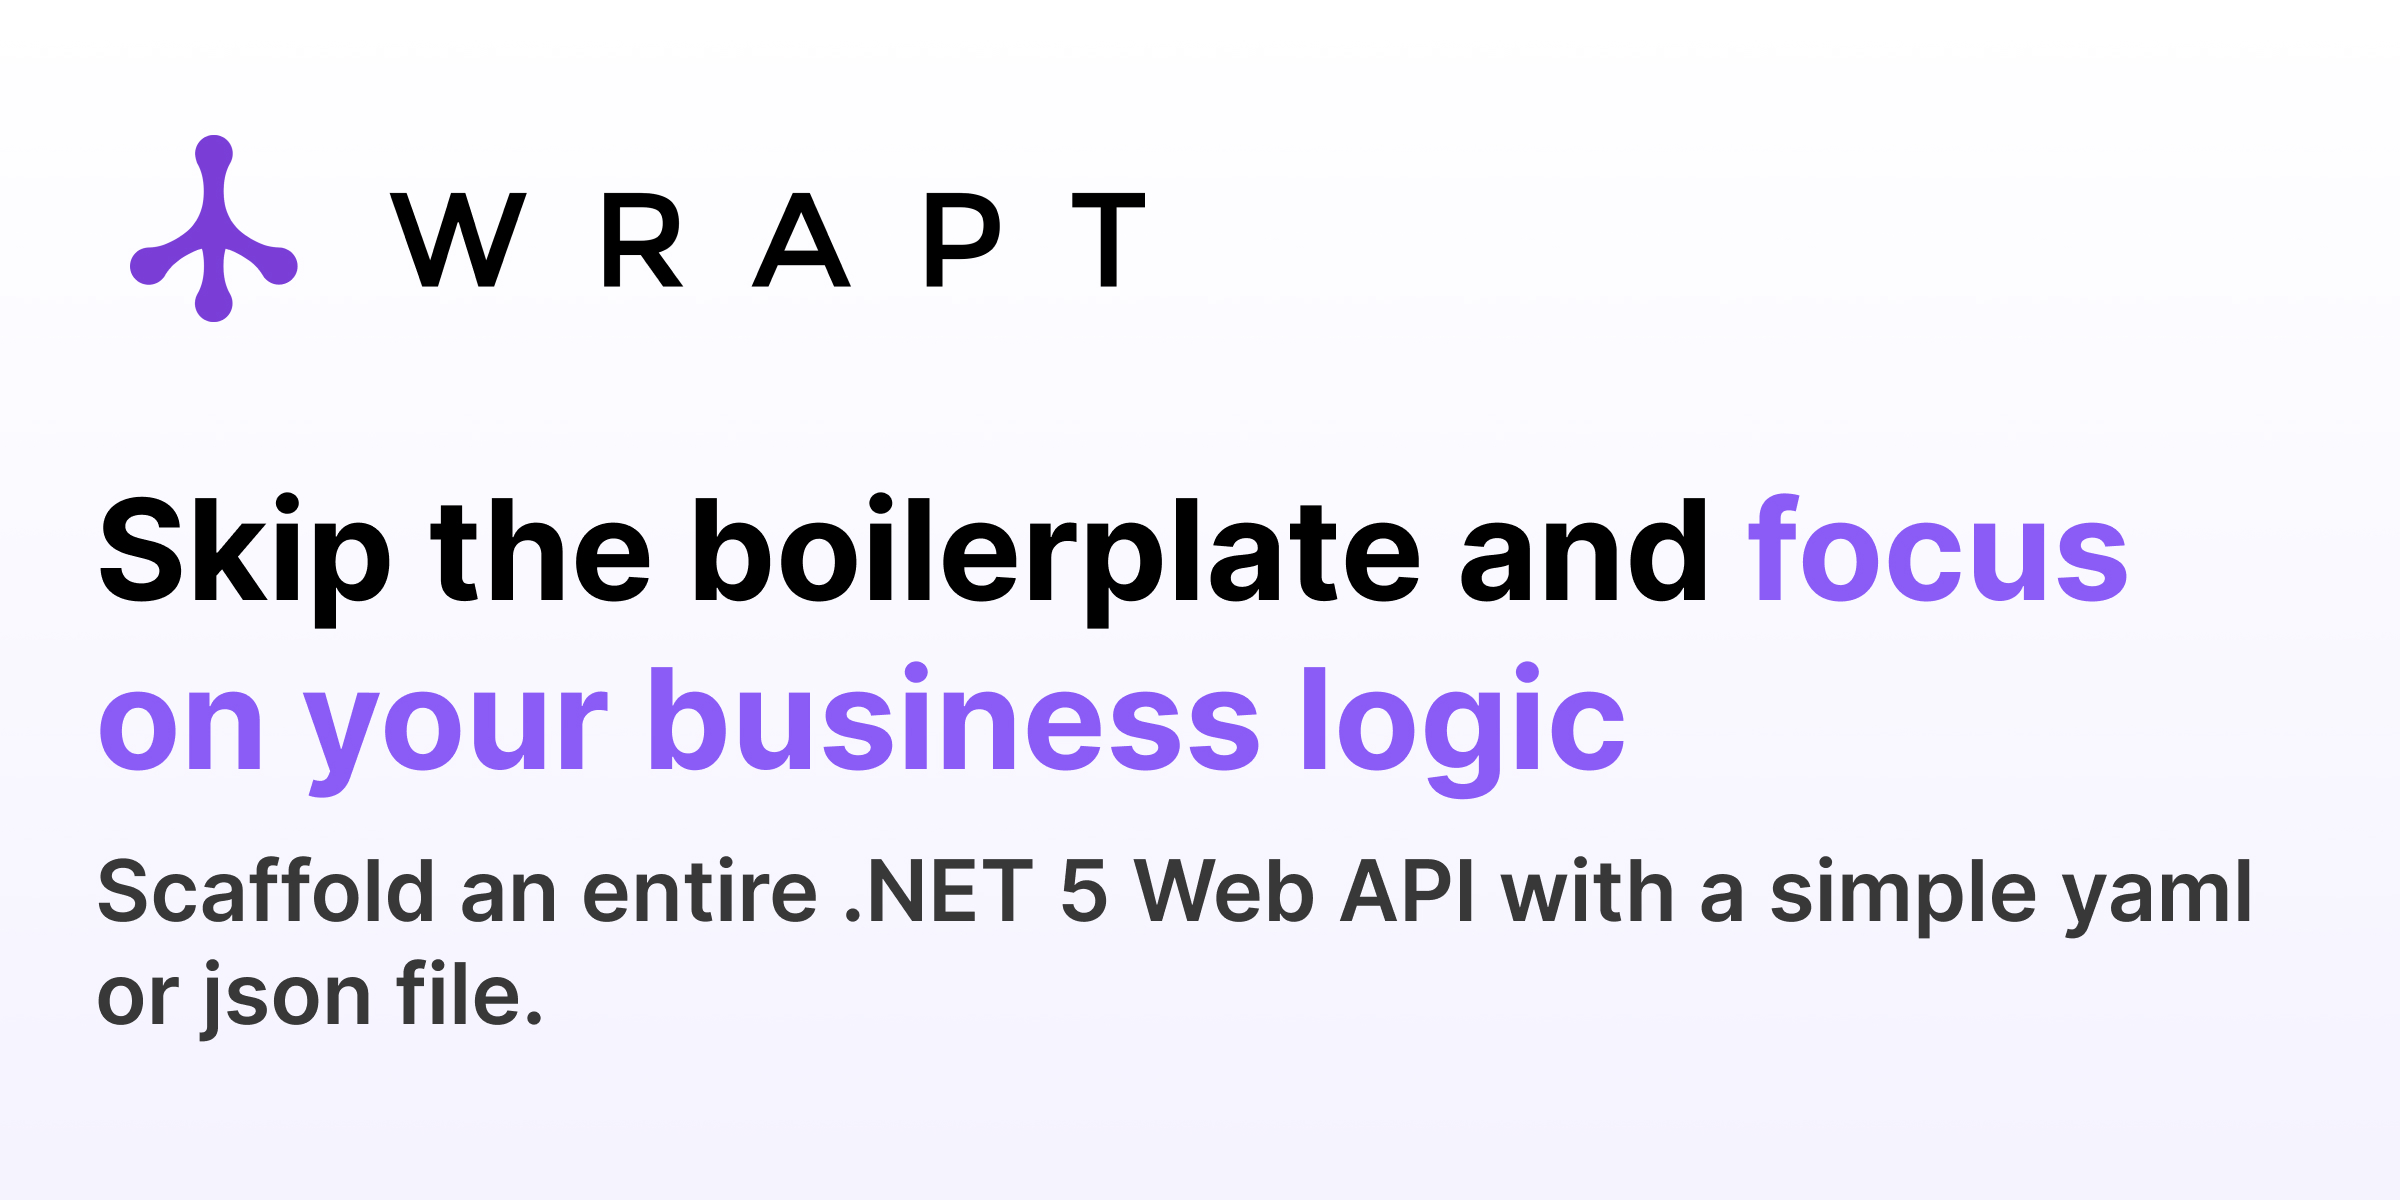
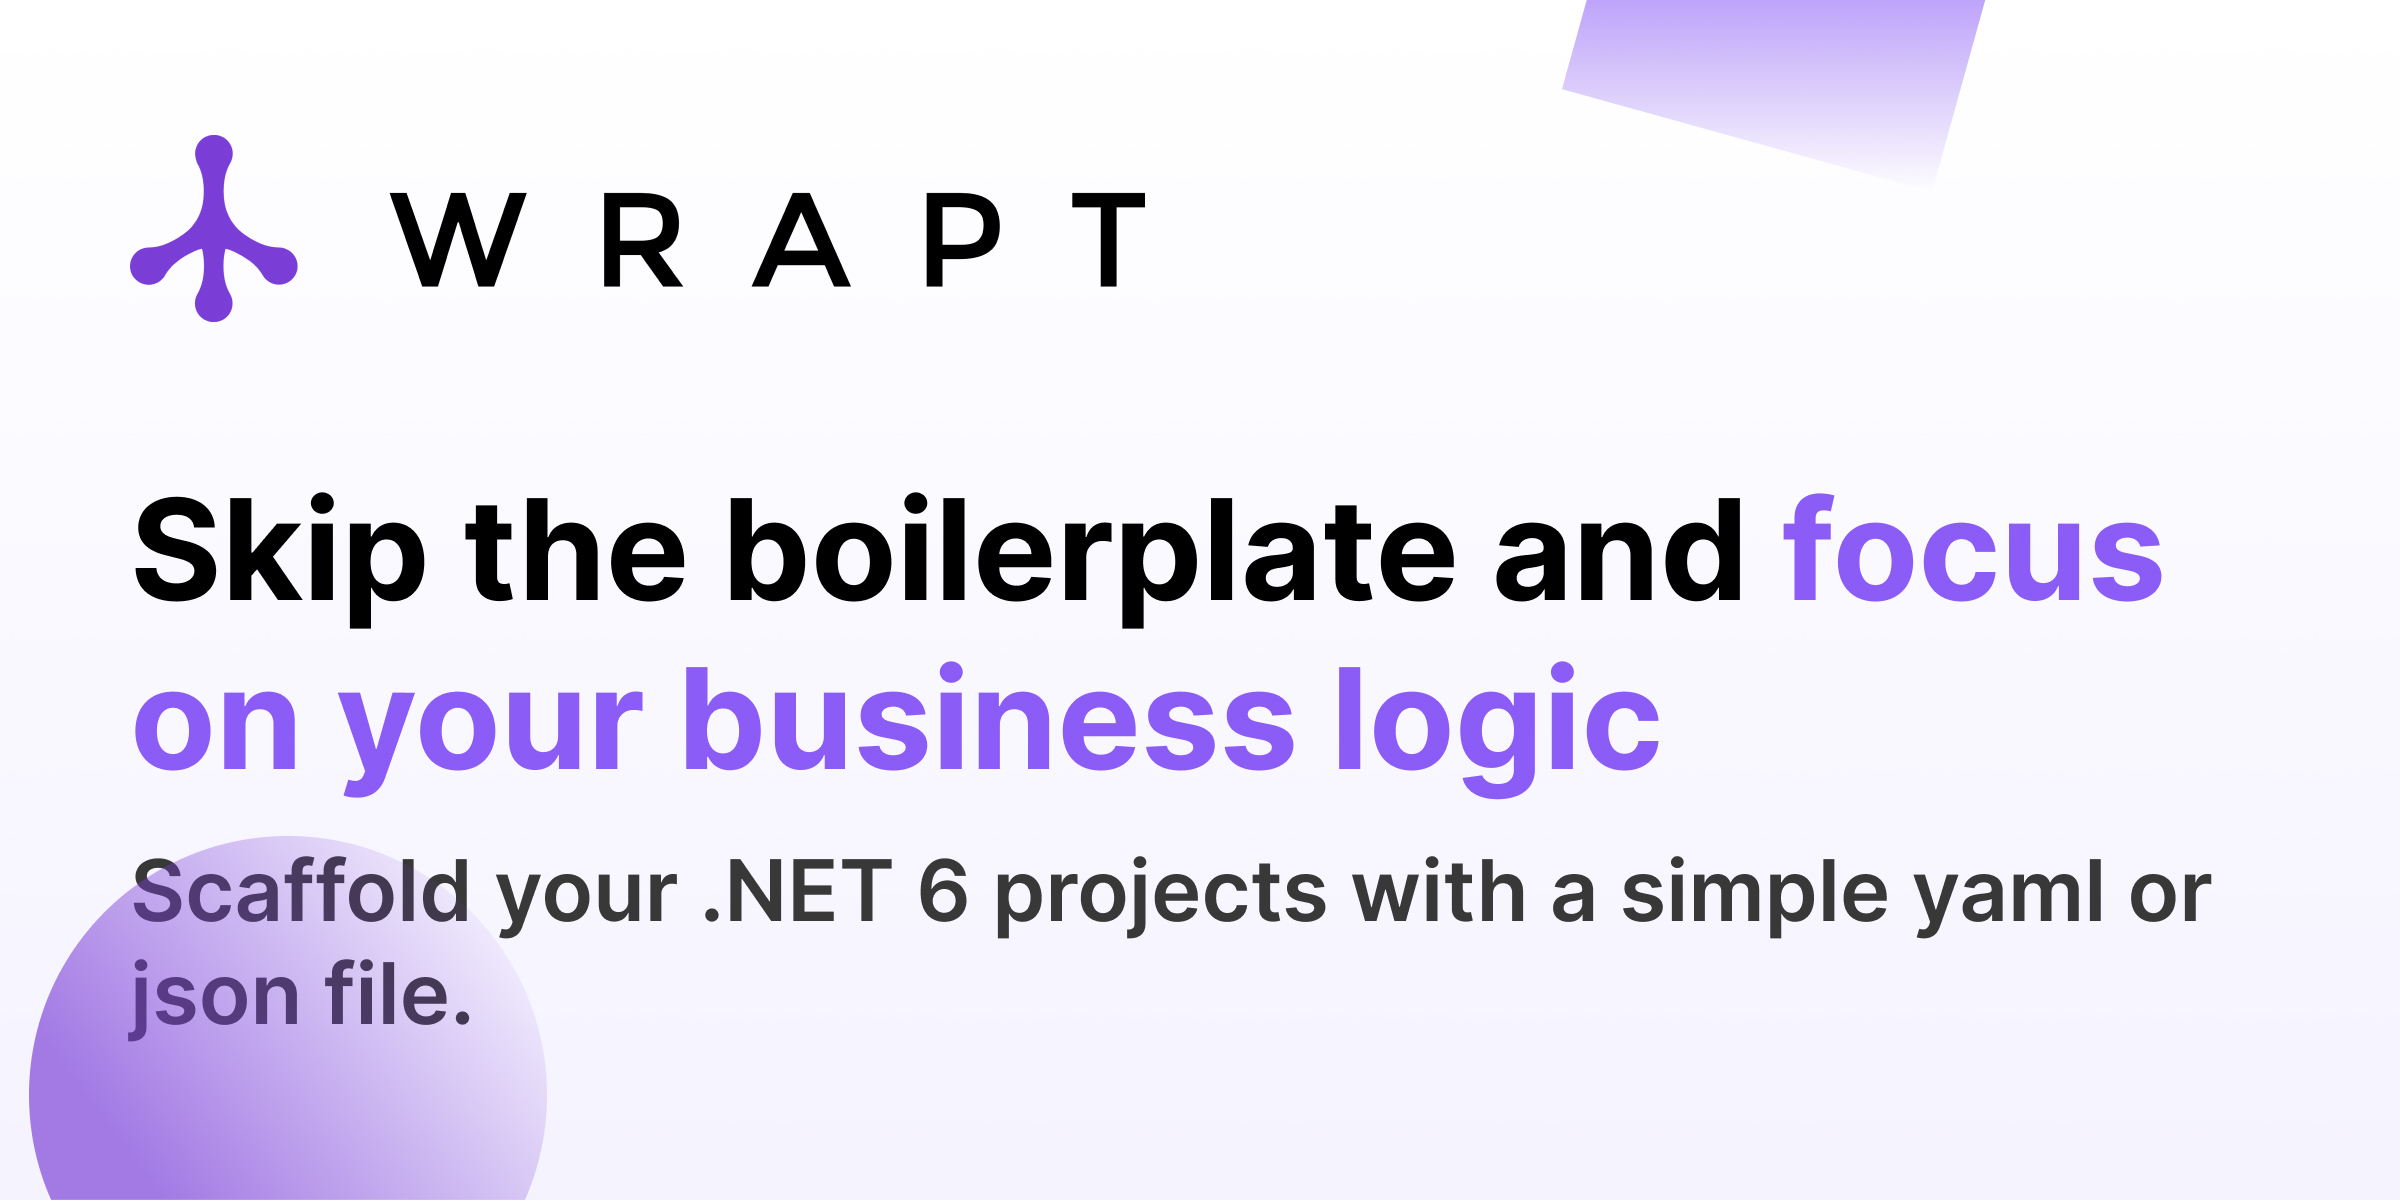
twitter card .net6

Changed region(s): [[0.0, 0.555, 0.9375, 1.0], [0.0312, 0.4008, 0.9062, 0.5242], [0.6562, 0.0, 0.8438, 0.1233]]

diff --git a/src/pages/index.js b/src/pages/index.js
@@ -121,18 +121,18 @@ export default function Home() {
             <meta
               key="twitter:title"
               name="twitter:title"
-              content="Wrapt - Scaffold an entire .NET 5 Web API with a simple yaml or json file."
+              content="Wrapt - Scaffold an entire .NET 6 Web API with a simple yaml or json file."
             />
             <meta
               key="og:title"
               property="og:title"
-              content="Wrapt - Scaffold an entire .NET 5 Web API with a simple yaml or json file."
+              content="Wrapt - Scaffold an entire .NET 6 Web API with a simple yaml or json file."
             />
             <meta
               name="description"
-              content="Scaffold an entire .NET 5 Web API with a simple yaml or json file."
+              content="Scaffold an entire .NET 6 Web API with a simple yaml or json file."
             />
-            <title>Wrapt - Scaffold an entire .NET 5 Web API with a simple yaml or json file.</title>
+            <title>Wrapt - Scaffold an entire .NET 6 Web API with a simple yaml or json file.</title>
           </>
         }
       </Head>
@@ -216,7 +216,7 @@ export default function Home() {
             </h1>
             <div className="flex items-center justify-center w-full">
               <p className="max-w-lg mb-10 text-lg font-medium md:max-w-3xl sm:text-2xl sm:leading-10 sm:mb-11 ">
-                Scaffold an entire .NET 5 Web API with a simple yaml or json file so you can focus on the high value features in your web app.
+                Scaffold an entire .NET 6 Web API with a simple yaml or json file so you can focus on the high value features in your web app.
               </p>
             </div>
           <div className="flex flex-wrap justify-center space-y-4 text-center sm:space-y-0 sm:space-x-4">
@@ -512,7 +512,7 @@ export default function Home() {
             />
             <FeatureBlock 
               title={'Enhanced Swagger Documentation'} 
-              // details={"Wrapt Web APIs will not only set up the basic Swagger scaffolding that comes with .NET 5, but can also provide detailed documentation for your endpoint's operations.""} 
+              // details={"Wrapt Web APIs will not only set up the basic Swagger scaffolding that comes with .NET 6, but can also provide detailed documentation for your endpoint's operations.""} 
             />
             <FeatureBlock 
               title={'Auth Server Scaffolding'} 
@@ -528,7 +528,7 @@ export default function Home() {
             />
             <FeatureBlock 
               title={'Flexible Database Options'} 
-              // details={"Easily add a database context for SqlServer or Postgres without any manual setup. The MySql library is currently in pre-release, but will be added with 1st party Wrapt support as soon as it is ready for .NET 5."} 
+              // details={"Easily add a database context for SqlServer or Postgres without any manual setup. The MySql library is currently in pre-release, but will be added with 1st party Wrapt support as soon as it is ready for .NET 6."} 
             />
             <FeatureBlock 
               title={'Serilog Logging'} 
